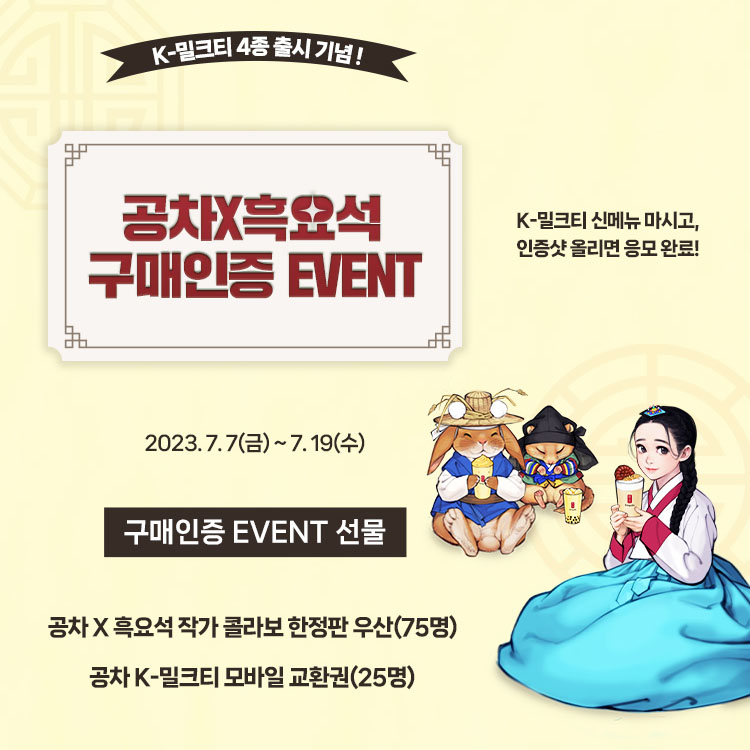
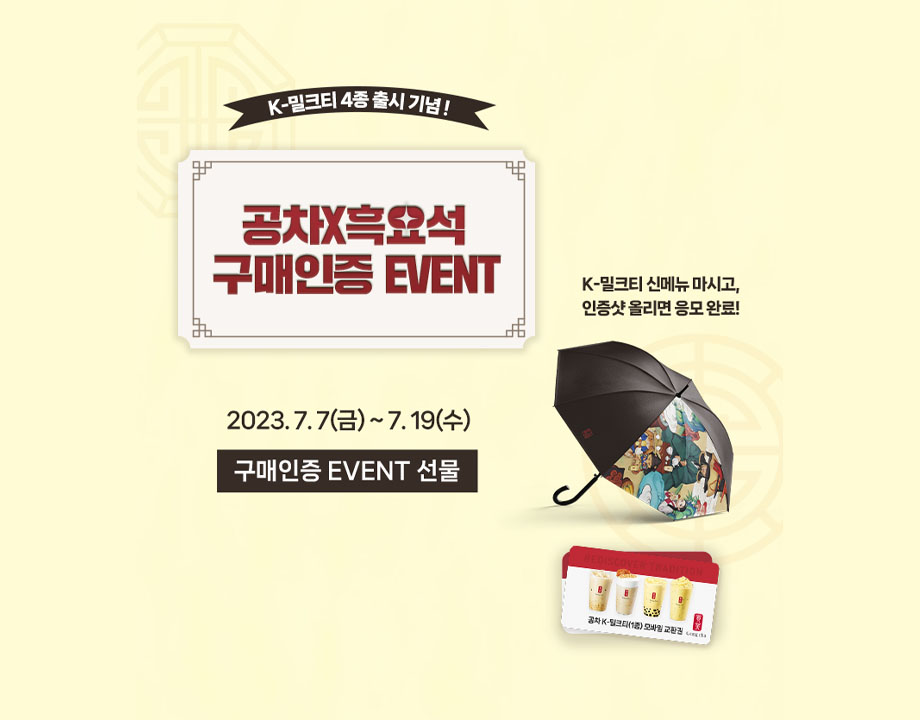
메인 이미지 조정

diff --git a/src/page/page.scss b/src/page/page.scss
@@ -42,19 +42,22 @@ $bg: #fdf8f2;
 
 .Home{
     display: flex;
+    justify-content: end;
     .carousel{
-        width: 720px;
+        width: 920px;
 
         .carousel-item{
+            width: 920px;
             transition: .3s;
-
-            >div{width: 720px;}
+            
+            img{width: 920px;}
 
             &:nth-child(1){background: #fefad4;}
             &:nth-child(2){background: linear-gradient(90deg,#f2c627,#d9c242,#91a83c);}
             &:nth-child(3){background: #e5dcca;}
             &:nth-child(4){background: #211a14;}
         }
+        
         
         .carousel-control-prev,.carousel-control-next{
             
@@ -75,9 +78,10 @@ $bg: #fdf8f2;
 
     .logo{
         position: relative;
-        width: 560px;
-        background-color: $bg;
+        width: 360px;
         padding-top: 150px;
+        background-color: $sub;
+        height: 720px;
 
         img{
             width: 300px;
@@ -89,18 +93,19 @@ $bg: #fdf8f2;
 
 
             margin: 0 auto;
-            background-color: $mainC;
+            background-color: #fff;
             border: none;
             
             &:hover,&.btn:active,:not(&.btn-check)+&.btn:active,&.btn:focus-visible{
-                background-color: $mainActive;
+                background-color: #fff;
             }
         
             span{
                 display: block; margin: 5px 3px; padding: 10px 30px;
                 font-size: 28px;
-                border: 2px dashed #fff;
-                font-family: 'paybooc-Bold';
+                border: 2px dashed $mainC;
+                font-family: $payb;
+                color: $mainC;
         
                 svg{margin-left: 20px; margin-bottom: -5px;}
             }
